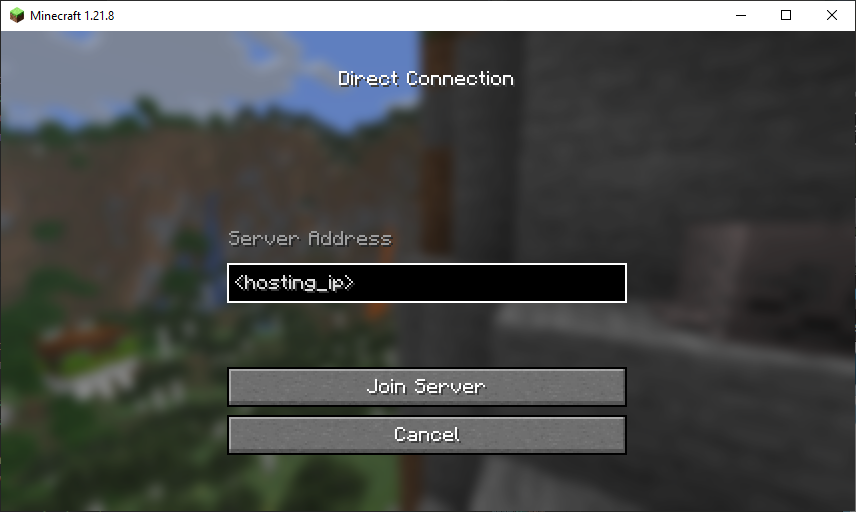
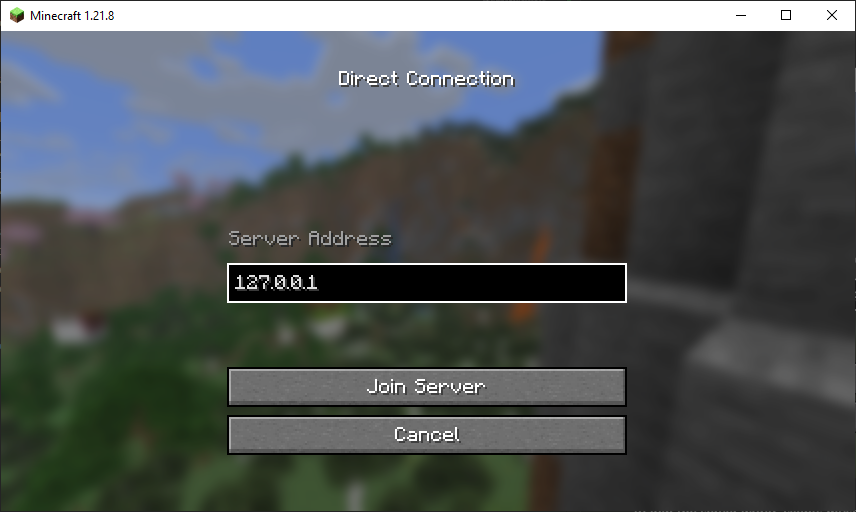
fixed default IP and updated readme

diff --git a/manager_host.py b/manager_host.py
@@ -1408,7 +1408,7 @@ class ServerManagerApp(QMainWindow):
             outdated = True
         
         if outdated:
-            file_funcs.update_settings(self.file_lock, self.ips, self.server_path, self.worlds, self.world_order, self.universal_settings, self.host_ip)
+            file_funcs.update_settings(self.file_lock, self.ips, self.server_path, self.worlds, self.world_order, self.universal_settings, self.saved_ip)
         
     
     def message_entered(self):
@@ -2340,7 +2340,7 @@ class ServerManagerApp(QMainWindow):
         self.set_whitelist()
         self.update_view_distance()
         self.update_simulation_distance()
-        file_funcs.update_settings(self.file_lock, self.ips, self.server_path, self.worlds, self.world_order, self.universal_settings, self.host_ip)
+        file_funcs.update_settings(self.file_lock, self.ips, self.server_path, self.worlds, self.world_order, self.universal_settings, self.saved_ip)
         file_funcs.update_all_universal_settings(self.server_path)
         if self.status == "online" and self.bus is not None:
             self.bus.view_distance.emit(int(self.universal_settings["view distance"]))
@@ -2354,7 +2354,7 @@ class ServerManagerApp(QMainWindow):
         self.dropdown.clear()
         self.dropdown.addItems(self.world_order)
         self.dropdown.setCurrentText(current_selected)
-        file_funcs.update_settings(self.file_lock, self.ips, self.server_path, self.worlds, self.world_order, self.universal_settings, self.host_ip)
+        file_funcs.update_settings(self.file_lock, self.ips, self.server_path, self.worlds, self.world_order, self.universal_settings, self.saved_ip)
     
     def open_player_context_menu(self, pos):
         item = self.players_info_box.itemAt(pos)

diff --git a/README.md b/README.md
@@ -23,12 +23,18 @@ The host has the ability to
 - Easily backup server worlds.
 - Quickly access each world's mods folder.
 - Directly edit each world's properties in the GUI
+- Change a few settings that are universal across all worlds
+  - Enable/Disable the whitelist
+  - Add usernames to the whitelist
+  - Set the view distance
+  - Set the simulation distance
 
 ### Extra Features
 For all versions starting at snapshot 25w35a (1.21.9), servers provide an API to receive notifications from the server, and also to send commands to the server. This means there are more features available for those worlds.
 - The host and clients automatically receive updates when players join and leave the server without having to refresh.
 - The host can click player's names in the list to perform specific actions on them such as whitelisting, kicking, etc.
 - The host is informed each time the whitelist, ban, or op status of a player changes.
+- Toggling the whitelist and changing the view/simulation distance through the GUI immediately applies the changes to the server world through the API.
 
 ## Host Instructions
 If you are hosting the server on your computer, you must have your `manager_host` program running for others to be able to control the server. You will need the latest Java Runtime (JRE) in order to run the server, so download one if you do not already have it. Different versions require different minimum JRE versions. You can download the latest JRE from [Adoptium Temurin](https://www.adoptium.net/temurin/releases/).  
